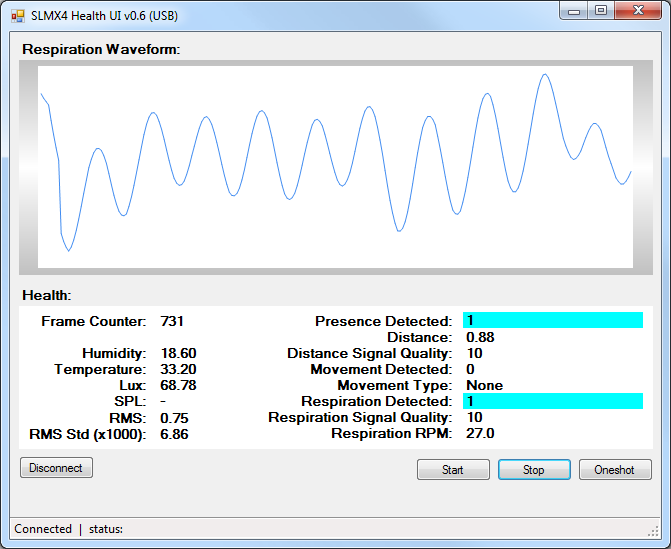
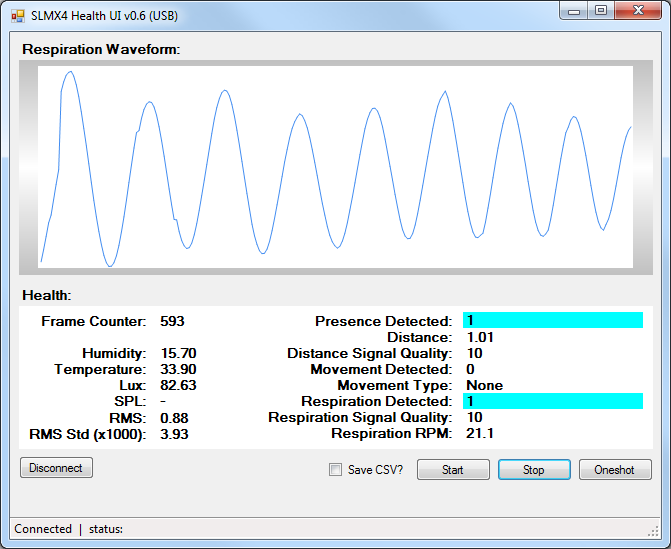
add save CSV control to health app. update doc and screenshots (#2)

diff --git a/firmware/health_app.md b/firmware/health_app.md
@@ -50,3 +50,17 @@ If there is fast movement for more than 4 seconds, the respiration waveform will
 <p align="center">
   <img src="../images/health_app/fast_movement_reset.png" />
 </p>
+
+### Save CSV
+There is a checkbox next to the 'Start' button. When this is checked, data in CSV format will be saved to the `data` folder until the control is unchecked again.
+
+Example:
+```
+PresenceDeteced,RespirationDetected,MovementDetected,MovementType,Distance,DistanceConf,RespirationRpm,RespirationConf,Rms,RmsStd,Humidity,Temperature,Lux,SPL,UTC Time(-7)
+1,0,0,0,0.76,100,24.6,59,0.8012381,0.0237974815368652,16.90,31.40,62.31,,09:47:48.1
+1,0,0,0,0.76,100,24.6,60,0.7973012,0.0240422878265381,17.00,31.30,62.31,,09:47:48.2
+1,1,0,0,0.76,100,24.6,61,0.796906,0.0242731819152832,16.90,31.40,62.31,,09:47:48.3
+1,1,0,0,0.76,100,24.6,62,0.7962412,0.0244450187683105,17.00,31.40,62.31,,09:47:48.4
+1,1,0,0,0.74,100,24.6,63,0.7921052,0.0245459403991699,17.00,31.40,62.31,,09:47:48.5
+1,1,0,0,0.73,100,24.6,64,0.7969559,0.0244412670135498,17.10,31.40,62.31,,09:47:48.6
+```
